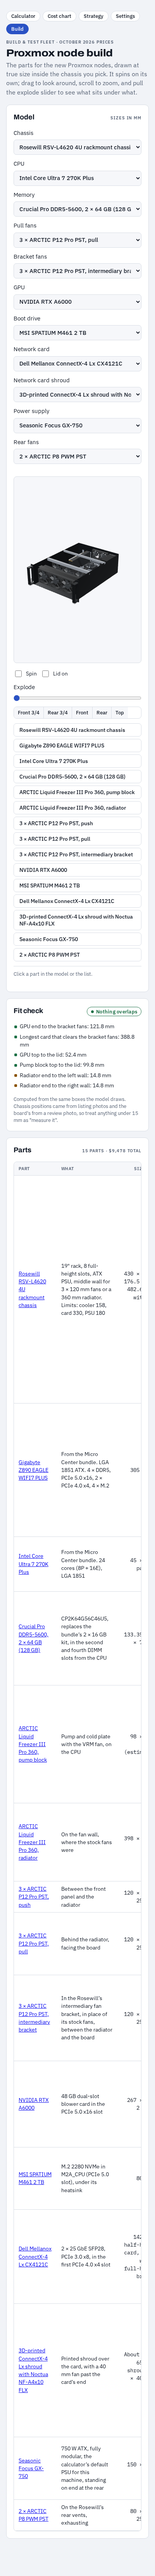
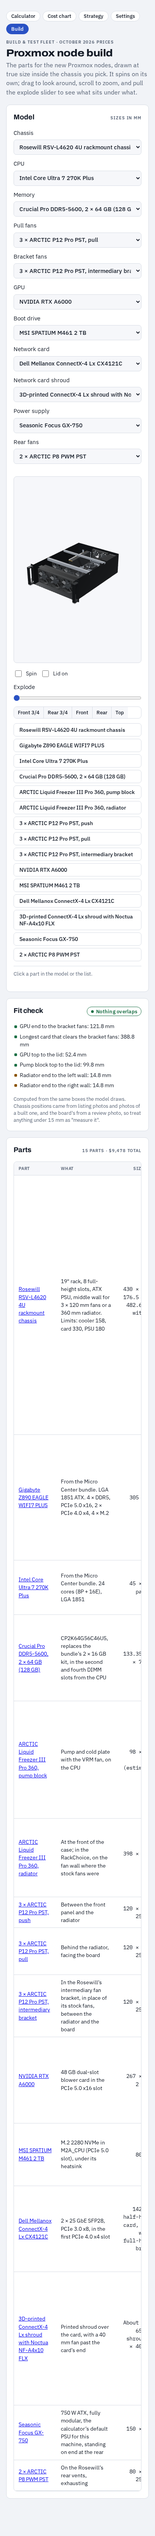
no-mistakes(review): Unify Rosewill position and fan pack copy, retake Build screenshots

diff --git a/src/data/build.ts b/src/data/build.ts
@@ -74,7 +74,7 @@ export const SLOTS: Slot[] = [
         spec: '19" rack, 8 full-height slots, ATX PSU, middle wall for 3 × 120 mm fans or a 360 mm radiator. Limits: cooler 158, card 330, PSU 180',
         size: '430 × 600 × 176.5 body, 482.6 wide with the ears',
         source: 'https://www.rosewill.com/rosewill-rsv-l4620-black-silver/p/9SIA072KNA9802',
-        note: 'Outside size from the manual summary on manuals.plus, which labels 600 as width; a 19" rack case can’t be, so it is drawn 430 wide and 600 deep. Slots, vents and the PSU opening were scaled off Rosewill’s rear photo, so they can be 5 mm out. The fan wall and crossbar positions are estimated from angled photos, so they can be 20 mm out. The drive trays and the three stock 120 mm fans are left out.',
+        note: 'Outside size from the manual summary on manuals.plus, which labels 600 as width; a 19" rack case can’t be, so it is drawn 430 wide and 600 deep. Slots, vents and the PSU opening were scaled off Rosewill’s rear photo, so they can be 5 mm out. Radiator and bracket positions were scaled from photos of a built Rosewill, so they can be 10 mm out. The middle crossbar position is estimated from angled photos, so it can be 20 mm out. The drive trays and the three stock 120 mm fans are left out.',
         url: 'https://www.amazon.com/dp/B0FZ2VL2P7',
         price: (s) => s.parts.chassis,
         priceNote: `Aaron’s parts list, 2026-10-29. Rosewill’s store showed $229.99 on 2026-11-06; Amazon blocked a direct read. ${SETTINGS}`,
@@ -205,7 +205,7 @@ export const SLOTS: Slot[] = [
       size: '120 × 120 × 25 each',
       url: 'https://www.centralcomputer.com/arctic-acfan00307a-p12-pro-pst-5-pack-black-powerful-premium-fan-120-mm-pwm-fan-with-y-cable-splitter-600-3000-rpm-0-rpm-5-pwm-fluid-dynamic-bearing-4-pin.html',
       price: (s) => s.parts.fans,
-      priceNote: `One 5-pack, which leaves two spare. Aaron’s parts list, 2026-10-29; the link shows the same pack. ${SETTINGS}`,
+      priceNote: `One 5-pack. Aaron’s parts list, 2026-10-29; the link shows the same pack. ${SETTINGS}`,
     }],
   },
   {
@@ -217,10 +217,9 @@ export const SLOTS: Slot[] = [
       name: '3 × ARCTIC P12 Pro PST, intermediary bracket',
       spec: 'In the Rosewill’s intermediary fan bracket, in place of its stock fans, between the radiator and the board',
       size: '120 × 120 × 25 each',
-      note: 'Radiator and bracket positions scaled from photos of a built Rosewill, so they can be 10 mm out.',
       url: 'https://www.centralcomputer.com/arctic-acfan00307a-p12-pro-pst-5-pack-black-powerful-premium-fan-120-mm-pwm-fan-with-y-cable-splitter-600-3000-rpm-0-rpm-5-pwm-fluid-dynamic-bearing-4-pin.html',
       price: (s) => s.parts.fans,
-      priceNote: `A second 5-pack, because the pull fans’ pack leaves only two spare. ${SETTINGS}`,
+      priceNote: `A second 5-pack: nine fans in all, and the cooler brings three. ${SETTINGS}`,
       chassis: 'rosewill',
     }],
   },

diff --git a/docs/validation.md b/docs/validation.md
@@ -55,4 +55,4 @@ The multi-model plan review is deferred under the worker contract in [the plan r
 
 ## Build page
 
-The Build page draws the Proxmox node parts with Three.js from box positions in `src/lib/build/layout.ts`, for whichever chassis and parts are chosen. `test/build.test.ts` checks both chassis: every chosen part is drawn, no solid part overlaps another or leaves the chassis, and the GPU clears the fans ahead of it. It also checks that the ATX PSU is caught in the 3U case, that a chassis sets its own parts, that the Rosewill's fan rows sit in the order of a built one, that no GPU with a no-graphics CPU warns, that the network card shroud only appears with its card, that empty slots draw nothing, and that every part has a link and a price; the page's fit check prints the same numbers. `e2e/build.spec.ts` covers the render, a part pick, swapping parts, the 400px no-horizontal-scroll rule, zoom kept across a window resize or phone rotation, the model staying drawn when fully zoomed out at 320px, and view buttons returning to the clean preset after a pan or pinch. Screenshots: [1400 light](validation/build-1400-light.png), [1400 dark](validation/build-1400-dark.png), [400](validation/build-400.png). Chassis interior positions come from listing photos and the board's from a review photo; the parts table notes which sizes and prices are estimates.
+The Build page draws the Proxmox node parts with Three.js from box positions in `src/lib/build/layout.ts`, for whichever chassis and parts are chosen. `test/build.test.ts` checks both chassis: every chosen part is drawn, no solid part overlaps another or leaves the chassis, and the GPU clears the fans ahead of it. It also checks that the ATX PSU is caught in the 3U case, that a chassis sets its own parts, that the Rosewill's fan rows sit in the order of a built one, that no GPU with a no-graphics CPU warns, that the network card shroud only appears with its card, that empty slots draw nothing, and that every part has a link and a price; the page's fit check prints the same numbers. `e2e/build.spec.ts` covers the render, a part pick, swapping parts, the 400px no-horizontal-scroll rule, zoom kept across a window resize or phone rotation, the model staying drawn when fully zoomed out at 320px, and view buttons returning to the clean preset after a pan or pinch. Screenshots: [1400 light](validation/build-1400-light.png), [1400 dark](validation/build-1400-dark.png), [400](validation/build-400.png). Chassis interior positions come from listing photos and photos of a built one, and the board's from a review photo; the parts table notes which sizes and prices are estimates.
